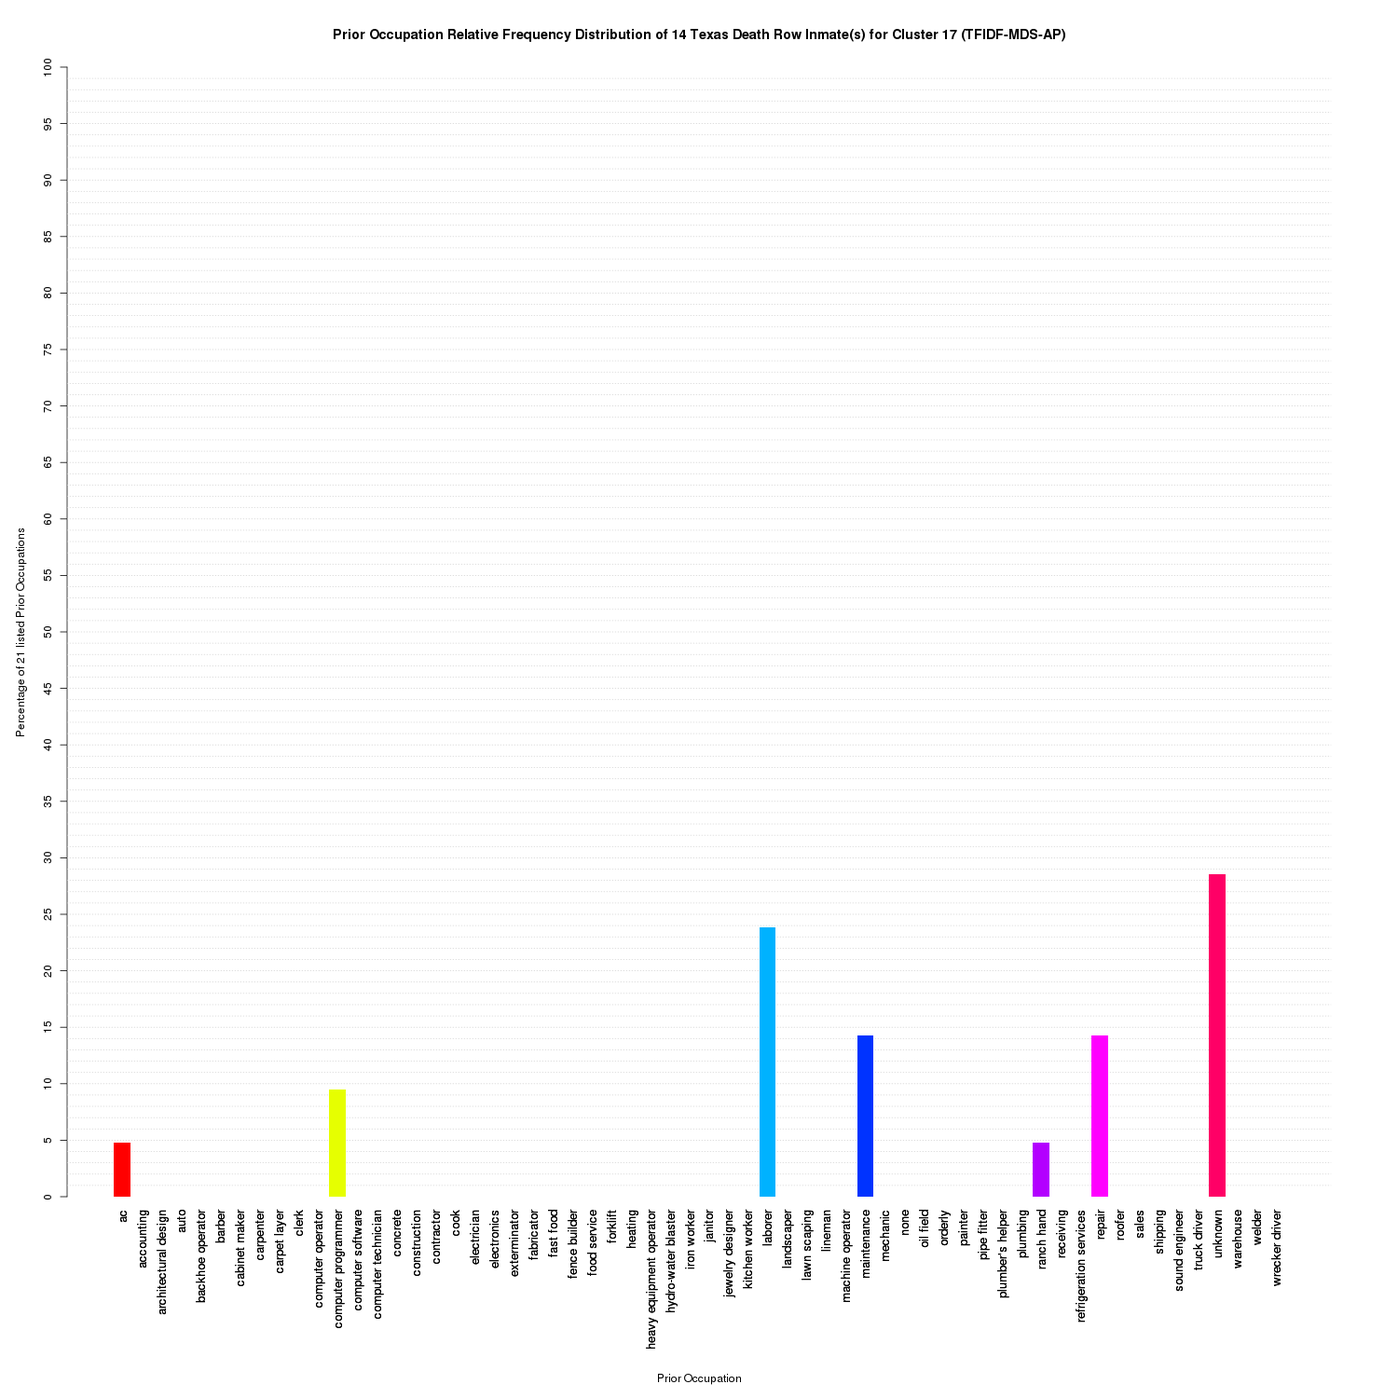
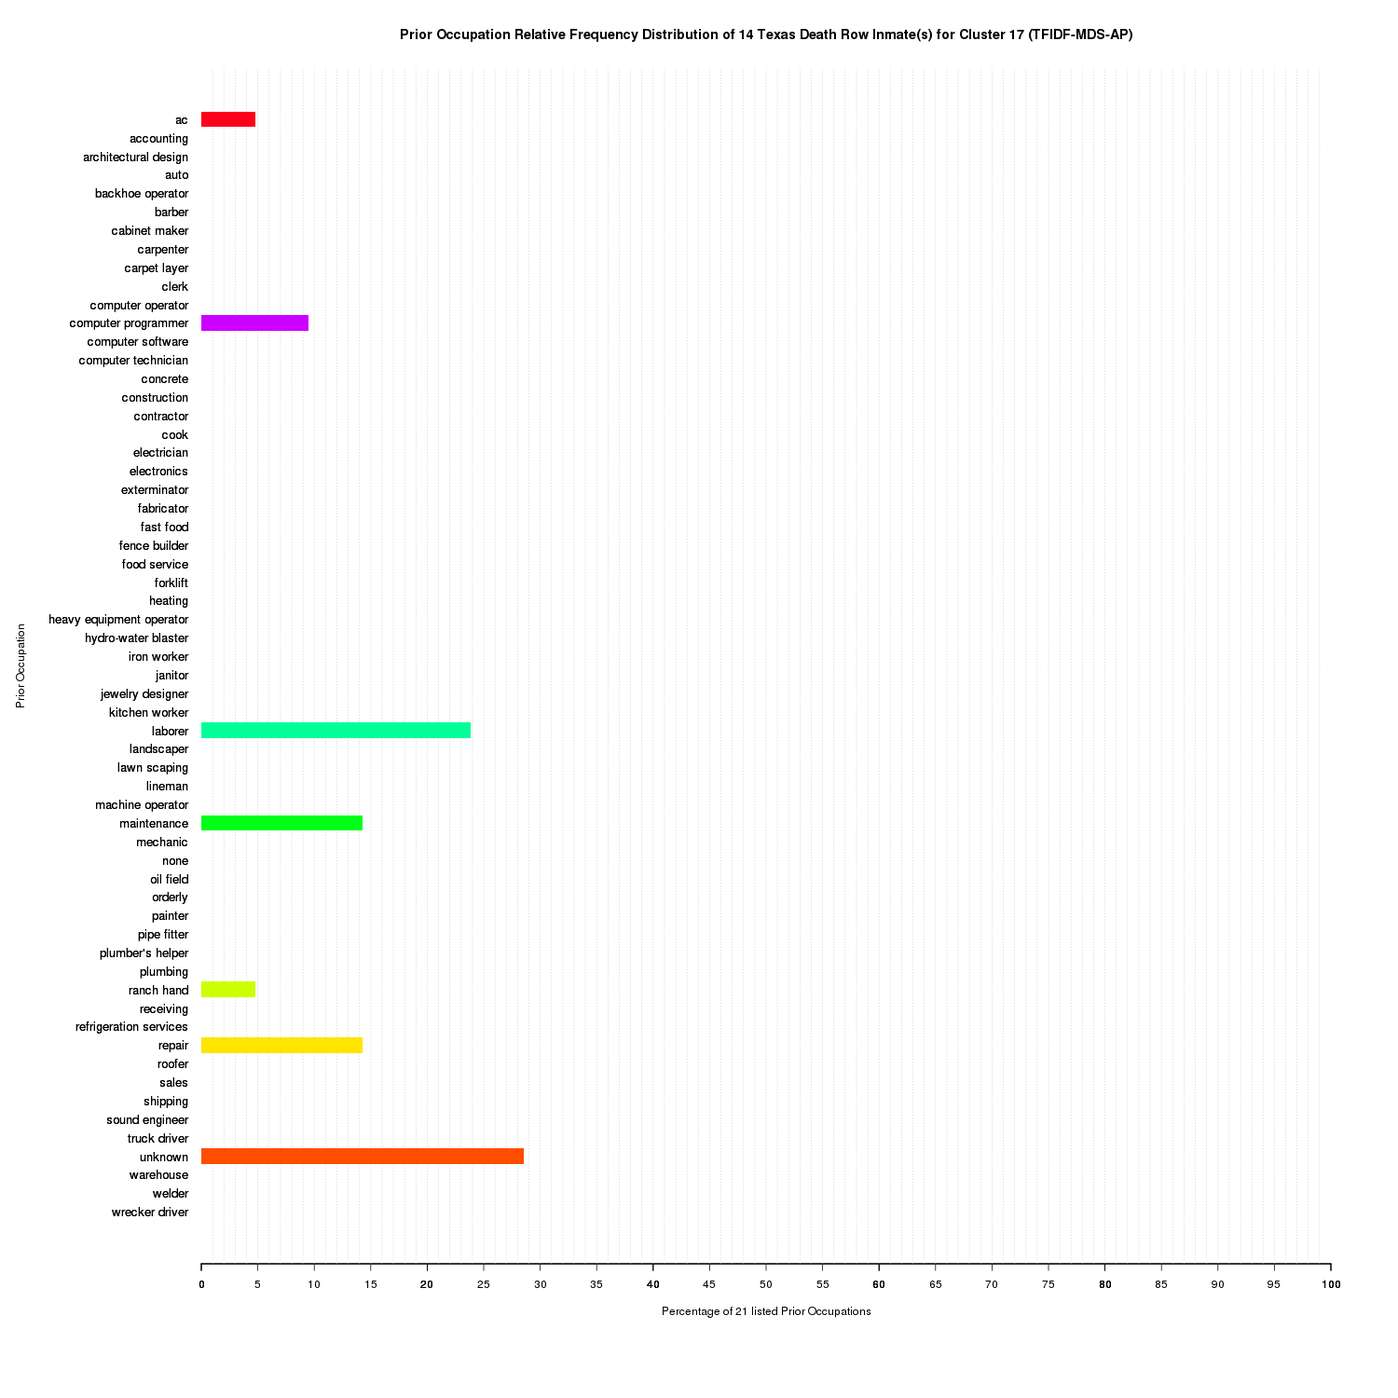
Updates texas death row prior occupations with horiz charts.

diff --git a/_site/posts/2016-02-17-text-mining-in-r-death-row-prior-occupations.html b/_site/posts/2016-02-17-text-mining-in-r-death-row-prior-occupations.html
@@ -228,35 +228,40 @@ unique_prior_occupations_length &lt;-<span class="st"> </span><span class="kw">l
 <span class="co"># Prior Occupation Relative Frequency Chart</span>
 <span class="co"># -----------------------</span>
 
-prior_occupations_table &lt;-<span class="st"> </span><span class="kw">table</span>(prior_occupations_merged)
+reverse_table &lt;-<span class="st"> </span>function(t) { t[<span class="kw">sort</span>(<span class="kw">names</span>(t), <span class="dt">decreasing=</span>T)] }
+
+prior_occupations_table &lt;-<span class="st"> </span><span class="kw">reverse_table</span>(<span class="kw">table</span>(prior_occupations_merged))
 prior_occupations_table &lt;-<span class="st"> </span>prior_occupations_table /<span class="st"> </span><span class="kw">sum</span>(prior_occupations_table) *<span class="st"> </span><span class="dv">100</span>
 <span class="kw">png</span>(<span class="dt">file=</span><span class="st">'prior_occupation_relative_freq_dist.png'</span>, <span class="dt">width=</span><span class="dv">1500</span>, <span class="dt">height=</span><span class="dv">1500</span>)
 <span class="kw">par</span>(
-  <span class="dt">mai=</span><span class="kw">c</span>(<span class="fl">3.0</span>, <span class="fl">1.0</span>, <span class="fl">1.0</span>, <span class="fl">1.0</span>)
+  <span class="dt">mai=</span><span class="kw">c</span>(<span class="fl">2.0</span>, <span class="fl">3.0</span>, <span class="fl">1.0</span>, <span class="fl">1.0</span>)
 )
 <span class="kw">barplot</span>(
   prior_occupations_table,
+  <span class="dt">horiz=</span>T,
   <span class="dt">col=</span><span class="kw">rainbow</span>(<span class="kw">length</span>(prior_occupations_table)),
   <span class="dt">cex.names=</span><span class="fl">1.1</span>,
-  <span class="dt">las=</span><span class="dv">2</span>,
-  <span class="dt">ylim=</span><span class="kw">c</span>(<span class="dv">0</span>, <span class="dv">100</span>),
-  <span class="dt">axes=</span>F
+  <span class="dt">las=</span><span class="dv">1</span>,
+  <span class="dt">xlim=</span><span class="kw">c</span>(<span class="dv">0</span>, <span class="dv">100</span>),
+  <span class="dt">axes=</span>T,
+  <span class="dt">border=</span><span class="ot">NA</span>
 )
-<span class="kw">axis</span>(<span class="dv">2</span>, <span class="dt">at=</span><span class="kw">seq</span>(<span class="dv">0</span>,<span class="dv">100</span>,<span class="dv">5</span>))
-<span class="kw">grid</span>(<span class="dt">ny=</span><span class="dv">100</span>, <span class="dt">nx=</span><span class="ot">NA</span>)
+<span class="kw">axis</span>(<span class="dv">1</span>, <span class="dt">at=</span><span class="kw">seq</span>(<span class="dv">0</span>,<span class="dv">100</span>,<span class="dv">5</span>))
+<span class="kw">grid</span>(<span class="dt">nx=</span><span class="dv">100</span>, <span class="dt">ny=</span><span class="ot">NA</span>)
 <span class="kw">barplot</span>(
   prior_occupations_table,
+  <span class="dt">horiz=</span>T,
   <span class="dt">col=</span><span class="kw">rainbow</span>(<span class="kw">length</span>(prior_occupations_table)),
   <span class="dt">cex.names=</span><span class="fl">1.1</span>,
-  <span class="dt">las=</span><span class="dv">2</span>,
-  <span class="dt">ylim=</span><span class="kw">c</span>(<span class="dv">0</span>, <span class="dv">100</span>),
-  <span class="dt">axes=</span>F,
+  <span class="dt">border=</span><span class="ot">NA</span>,
+  <span class="dt">las=</span><span class="dv">1</span>,
+  <span class="dt">xlim=</span><span class="kw">c</span>(<span class="dv">0</span>, <span class="dv">100</span>),
+  <span class="dt">axes=</span>T,
   <span class="dt">add=</span>T,
-  <span class="dt">xlab=</span><span class="st">''</span>,
-  <span class="dt">ylab=</span><span class="kw">paste</span>(<span class="st">'Percentage of'</span>, total_prior_occupation_count, <span class="st">'listed Prior Occupations'</span>),
+  <span class="dt">xlab=</span><span class="kw">paste</span>(<span class="st">'Percentage of'</span>, total_prior_occupation_count, <span class="st">'listed Prior Occupations'</span>),
   <span class="dt">main=</span><span class="kw">paste</span>(<span class="st">'Prior Occupation Relative Frequency Distribution of'</span>, total_inmate_count, <span class="st">'Texas Death Row Inmates'</span>)
 )
-<span class="kw">mtext</span>(<span class="st">'Prior Occupation'</span>, <span class="dt">side=</span><span class="dv">1</span>, <span class="dt">line=</span><span class="dv">13</span>)</code></pre></div>
+<span class="kw">mtext</span>(<span class="st">'Prior Occupation'</span>, <span class="dt">side=</span><span class="dv">2</span>, <span class="dt">line=</span><span class="dv">13</span>)</code></pre></div>
 <div class="figure">
 <img src="../images/2016-02-17-text-mining-in-r-death-row-prior-occupations/prior_occupation_relative_freq_dist.png" alt="Prior Occupation Relative Frequency Distribution of 182 Texas Death Row Inmates" class="post-img post-img-fill" />
 <p class="caption">Prior Occupation Relative Frequency Distribution of 182 Texas Death Row Inmates</p>
@@ -480,34 +485,37 @@ inmate_cluster_labels &lt;-<span class="st"> </span>result$labels</code></pre></
       cluster_prior_occupations &lt;-<span class="st"> </span><span class="kw">c</span>(cluster_prior_occupations, inmate_prior_occupations)
     }
 
-    prior_occupations_table &lt;-<span class="st"> </span><span class="kw">table</span>(<span class="kw">factor</span>(cluster_prior_occupations, <span class="dt">levels=</span>unique_prior_occupations))
+    prior_occupations_table &lt;-<span class="st"> </span><span class="kw">reverse_table</span>(<span class="kw">table</span>(<span class="kw">factor</span>(cluster_prior_occupations, <span class="dt">levels=</span>unique_prior_occupations)))
     prior_occupations_table &lt;-<span class="st"> </span>prior_occupations_table /<span class="st"> </span><span class="kw">sum</span>(prior_occupations_table) *<span class="st"> </span><span class="dv">100</span>
 
     <span class="kw">png</span>(<span class="dt">file=</span><span class="kw">paste</span>(<span class="kw">tolower</span>(prefix), <span class="kw">toString</span>(i), <span class="st">'prior_occupation_distribution.png'</span>, <span class="dt">sep=</span><span class="st">'_'</span>), <span class="dt">width=</span><span class="dv">1500</span>, <span class="dt">height=</span><span class="dv">1500</span>)
     <span class="kw">plot.new</span>()
     <span class="kw">par</span>(
-      <span class="dt">mai=</span><span class="kw">c</span>(<span class="fl">3.0</span>, <span class="fl">1.0</span>, <span class="fl">1.0</span>, <span class="fl">1.0</span>)
+      <span class="dt">mai=</span><span class="kw">c</span>(<span class="fl">2.0</span>, <span class="fl">3.0</span>, <span class="fl">1.0</span>, <span class="fl">1.0</span>)
     )
     <span class="kw">barplot</span>(
       prior_occupations_table,
+      <span class="dt">horiz=</span>T,
       <span class="dt">col=</span><span class="kw">rainbow</span>(<span class="kw">length</span>(prior_occupations_table)),
       <span class="dt">cex.names=</span><span class="fl">1.1</span>,
-      <span class="dt">las=</span><span class="dv">2</span>,
-      <span class="dt">ylim=</span><span class="kw">c</span>(<span class="dv">0</span>, <span class="dv">100</span>),
-      <span class="dt">axes=</span>F
+      <span class="dt">las=</span><span class="dv">1</span>,
+      <span class="dt">xlim=</span><span class="kw">c</span>(<span class="dv">0</span>, <span class="dv">100</span>),
+      <span class="dt">axes=</span>T,
+      <span class="dt">border=</span><span class="ot">NA</span>
     )
-    <span class="kw">axis</span>(<span class="dv">2</span>, <span class="dt">at=</span><span class="kw">seq</span>(<span class="dv">0</span>,<span class="dv">100</span>,<span class="dv">5</span>))
-    <span class="kw">grid</span>(<span class="dt">ny=</span><span class="dv">100</span>, <span class="dt">nx=</span><span class="ot">NA</span>)
+    <span class="kw">axis</span>(<span class="dv">1</span>, <span class="dt">at=</span><span class="kw">seq</span>(<span class="dv">0</span>,<span class="dv">100</span>,<span class="dv">5</span>))
+    <span class="kw">grid</span>(<span class="dt">nx=</span><span class="dv">100</span>, <span class="dt">ny=</span><span class="ot">NA</span>)
     <span class="kw">barplot</span>(
       prior_occupations_table,
+      <span class="dt">horiz=</span>T,
       <span class="dt">col=</span><span class="kw">rainbow</span>(<span class="kw">length</span>(prior_occupations_table)),
       <span class="dt">cex.names=</span><span class="fl">1.1</span>,
-      <span class="dt">las=</span><span class="dv">2</span>,
-      <span class="dt">ylim=</span><span class="kw">c</span>(<span class="dv">0</span>, <span class="dv">100</span>),
-      <span class="dt">axes=</span>F,
+      <span class="dt">las=</span><span class="dv">1</span>,
+      <span class="dt">xlim=</span><span class="kw">c</span>(<span class="dv">0</span>, <span class="dv">100</span>),
+      <span class="dt">axes=</span>T,
       <span class="dt">add=</span>T,
-      <span class="dt">xlab=</span><span class="st">''</span>,
-      <span class="dt">ylab=</span><span class="kw">paste</span>(<span class="st">'Percentage of'</span>, <span class="kw">length</span>(cluster_prior_occupations), <span class="st">'listed Prior Occupations'</span>),
+      <span class="dt">ylab=</span><span class="st">''</span>,
+      <span class="dt">xlab=</span><span class="kw">paste</span>(<span class="st">'Percentage of'</span>, <span class="kw">length</span>(cluster_prior_occupations), <span class="st">'listed Prior Occupations'</span>),
       <span class="dt">main=</span><span class="kw">paste</span>(
         <span class="st">'Prior Occupation Relative Frequency Distribution of'</span>,
         <span class="kw">length</span>(cluster),
@@ -518,9 +526,10 @@ inmate_cluster_labels &lt;-<span class="st"> </span>result$labels</code></pre></
           prefix,
           <span class="st">')'</span>
         )
-      )
+      ),
+      <span class="dt">border=</span><span class="ot">NA</span>
     )
-    <span class="kw">mtext</span>(<span class="st">'Prior Occupation'</span>, <span class="dt">side=</span><span class="dv">1</span>, <span class="dt">line=</span><span class="dv">13</span>)
+    <span class="kw">mtext</span>(<span class="st">'Prior Occupation'</span>, <span class="dt">side=</span><span class="dv">2</span>, <span class="dt">line=</span><span class="dv">13</span>)
     <span class="kw">dev.off</span>()
   }
 }
@@ -1118,11 +1127,8 @@ csv_filename &lt;-<span class="st"> 'prior_occupations_dirty.csv'</span>
 
 if (!<span class="kw">file.exists</span>(csv_filename)) {
   page &lt;-<span class="st"> </span><span class="kw">read_html</span>(main_link)
-  page
   links &lt;-<span class="st"> </span><span class="kw">html_attr</span>(<span class="kw">html_nodes</span>(page, <span class="st">'a'</span>), <span class="st">'href'</span>)
-  links
   links &lt;-<span class="st"> </span><span class="kw">grep</span>(<span class="st">'^dr_info.*html$'</span>, links, <span class="dt">value=</span><span class="ot">TRUE</span>)
-  links
   prior_occupations_dirty &lt;-<span class="st"> </span><span class="kw">c</span>()
   for (link in links) {
     texts &lt;-<span class="st"> </span><span class="kw">read_html</span>(<span class="kw">paste</span>(base_link, link, <span class="dt">sep=</span><span class="st">''</span>)) %&gt;%<span class="st"> </span><span class="kw">html_nodes</span>(<span class="st">'p'</span>) %&gt;%<span class="st"> </span><span class="kw">html_text</span>()
@@ -1236,37 +1242,40 @@ unique_prior_occupations_length &lt;-<span class="st"> </span><span class="kw">l
 <span class="co"># Prior Occupation Relative Frequency Chart</span>
 <span class="co"># -----------------------</span>
 
-prior_occupations_table &lt;-<span class="st"> </span><span class="kw">table</span>(prior_occupations_merged)
+reverse_table &lt;-<span class="st"> </span>function(t) { t[<span class="kw">sort</span>(<span class="kw">names</span>(t), <span class="dt">decreasing=</span>T)] }
+
+prior_occupations_table &lt;-<span class="st"> </span><span class="kw">reverse_table</span>(<span class="kw">table</span>(prior_occupations_merged))
 prior_occupations_table &lt;-<span class="st"> </span>prior_occupations_table /<span class="st"> </span><span class="kw">sum</span>(prior_occupations_table) *<span class="st"> </span><span class="dv">100</span>
 <span class="kw">png</span>(<span class="dt">file=</span><span class="st">'prior_occupation_relative_freq_dist.png'</span>, <span class="dt">width=</span><span class="dv">1500</span>, <span class="dt">height=</span><span class="dv">1500</span>)
 <span class="kw">par</span>(
-  <span class="dt">mai=</span><span class="kw">c</span>(<span class="fl">3.0</span>, <span class="fl">1.0</span>, <span class="fl">1.0</span>, <span class="fl">1.0</span>)
+  <span class="dt">mai=</span><span class="kw">c</span>(<span class="fl">2.0</span>, <span class="fl">3.0</span>, <span class="fl">1.0</span>, <span class="fl">1.0</span>)
 )
 <span class="kw">barplot</span>(
   prior_occupations_table,
+  <span class="dt">horiz=</span>T,
   <span class="dt">col=</span><span class="kw">rainbow</span>(<span class="kw">length</span>(prior_occupations_table)),
   <span class="dt">cex.names=</span><span class="fl">1.1</span>,
-  <span class="dt">las=</span><span class="dv">2</span>,
-  <span class="dt">ylim=</span><span class="kw">c</span>(<span class="dv">0</span>, <span class="dv">100</span>),
-  <span class="dt">axes=</span>F,
+  <span class="dt">las=</span><span class="dv">1</span>,
+  <span class="dt">xlim=</span><span class="kw">c</span>(<span class="dv">0</span>, <span class="dv">100</span>),
+  <span class="dt">axes=</span>T,
   <span class="dt">border=</span><span class="ot">NA</span>
 )
-<span class="kw">axis</span>(<span class="dv">2</span>, <span class="dt">at=</span><span class="kw">seq</span>(<span class="dv">0</span>,<span class="dv">100</span>,<span class="dv">5</span>))
-<span class="kw">grid</span>(<span class="dt">ny=</span><span class="dv">100</span>, <span class="dt">nx=</span><span class="ot">NA</span>)
+<span class="kw">axis</span>(<span class="dv">1</span>, <span class="dt">at=</span><span class="kw">seq</span>(<span class="dv">0</span>,<span class="dv">100</span>,<span class="dv">5</span>))
+<span class="kw">grid</span>(<span class="dt">nx=</span><span class="dv">100</span>, <span class="dt">ny=</span><span class="ot">NA</span>)
 <span class="kw">barplot</span>(
   prior_occupations_table,
+  <span class="dt">horiz=</span>T,
   <span class="dt">col=</span><span class="kw">rainbow</span>(<span class="kw">length</span>(prior_occupations_table)),
   <span class="dt">cex.names=</span><span class="fl">1.1</span>,
   <span class="dt">border=</span><span class="ot">NA</span>,
-  <span class="dt">las=</span><span class="dv">2</span>,
-  <span class="dt">ylim=</span><span class="kw">c</span>(<span class="dv">0</span>, <span class="dv">100</span>),
-  <span class="dt">axes=</span>F,
+  <span class="dt">las=</span><span class="dv">1</span>,
+  <span class="dt">xlim=</span><span class="kw">c</span>(<span class="dv">0</span>, <span class="dv">100</span>),
+  <span class="dt">axes=</span>T,
   <span class="dt">add=</span>T,
-  <span class="dt">xlab=</span><span class="st">''</span>,
-  <span class="dt">ylab=</span><span class="kw">paste</span>(<span class="st">'Percentage of'</span>, total_prior_occupation_count, <span class="st">'listed Prior Occupations'</span>),
+  <span class="dt">xlab=</span><span class="kw">paste</span>(<span class="st">'Percentage of'</span>, total_prior_occupation_count, <span class="st">'listed Prior Occupations'</span>),
   <span class="dt">main=</span><span class="kw">paste</span>(<span class="st">'Prior Occupation Relative Frequency Distribution of'</span>, total_inmate_count, <span class="st">'Texas Death Row Inmates'</span>)
 )
-<span class="kw">mtext</span>(<span class="st">'Prior Occupation'</span>, <span class="dt">side=</span><span class="dv">1</span>, <span class="dt">line=</span><span class="dv">13</span>)
+<span class="kw">mtext</span>(<span class="st">'Prior Occupation'</span>, <span class="dt">side=</span><span class="dv">2</span>, <span class="dt">line=</span><span class="dv">13</span>)
 
 <span class="co"># -----------------------</span>
 <span class="co"># Inmate x Prior Occupations</span>
@@ -1328,7 +1337,8 @@ inmate_matrix_tfidf_l2_norm &lt;-<span class="st"> </span><span class="kw">matri
   <span class="dt">byrow=</span>T
 )
 
-<span class="co">#inmate_matrix_tfidf &lt;- inmate_matrix_tfidf_l2_norm</span>
+<span class="co"># Uncomment to use the L2 norm version of TF-IDF.</span>
+<span class="co"># inmate_matrix_tfidf &lt;- inmate_matrix_tfidf_l2_norm</span>
 
 <span class="co"># -----------------------</span>
 <span class="co"># MDS</span>
@@ -1604,35 +1614,37 @@ plot_clusters_occupation_distributions &lt;-<span class="st"> </span>function(pr
       cluster_prior_occupations &lt;-<span class="st"> </span><span class="kw">c</span>(cluster_prior_occupations, inmate_prior_occupations)
     }
 
-    prior_occupations_table &lt;-<span class="st"> </span><span class="kw">table</span>(<span class="kw">factor</span>(cluster_prior_occupations, <span class="dt">levels=</span>unique_prior_occupations))
+    prior_occupations_table &lt;-<span class="st"> </span><span class="kw">reverse_table</span>(<span class="kw">table</span>(<span class="kw">factor</span>(cluster_prior_occupations, <span class="dt">levels=</span>unique_prior_occupations)))
     prior_occupations_table &lt;-<span class="st"> </span>prior_occupations_table /<span class="st"> </span><span class="kw">sum</span>(prior_occupations_table) *<span class="st"> </span><span class="dv">100</span>
 
     <span class="kw">png</span>(<span class="dt">file=</span><span class="kw">paste</span>(<span class="kw">tolower</span>(prefix), <span class="kw">toString</span>(i), <span class="st">'prior_occupation_distribution.png'</span>, <span class="dt">sep=</span><span class="st">'_'</span>), <span class="dt">width=</span><span class="dv">1500</span>, <span class="dt">height=</span><span class="dv">1500</span>)
     <span class="kw">plot.new</span>()
     <span class="kw">par</span>(
-      <span class="dt">mai=</span><span class="kw">c</span>(<span class="fl">3.0</span>, <span class="fl">1.0</span>, <span class="fl">1.0</span>, <span class="fl">1.0</span>)
+      <span class="dt">mai=</span><span class="kw">c</span>(<span class="fl">2.0</span>, <span class="fl">3.0</span>, <span class="fl">1.0</span>, <span class="fl">1.0</span>)
     )
     <span class="kw">barplot</span>(
       prior_occupations_table,
+      <span class="dt">horiz=</span>T,
       <span class="dt">col=</span><span class="kw">rainbow</span>(<span class="kw">length</span>(prior_occupations_table)),
       <span class="dt">cex.names=</span><span class="fl">1.1</span>,
-      <span class="dt">las=</span><span class="dv">2</span>,
-      <span class="dt">ylim=</span><span class="kw">c</span>(<span class="dv">0</span>, <span class="dv">100</span>),
-      <span class="dt">axes=</span>F,
+      <span class="dt">las=</span><span class="dv">1</span>,
+      <span class="dt">xlim=</span><span class="kw">c</span>(<span class="dv">0</span>, <span class="dv">100</span>),
+      <span class="dt">axes=</span>T,
       <span class="dt">border=</span><span class="ot">NA</span>
     )
-    <span class="kw">axis</span>(<span class="dv">2</span>, <span class="dt">at=</span><span class="kw">seq</span>(<span class="dv">0</span>,<span class="dv">100</span>,<span class="dv">5</span>))
-    <span class="kw">grid</span>(<span class="dt">ny=</span><span class="dv">100</span>, <span class="dt">nx=</span><span class="ot">NA</span>)
+    <span class="kw">axis</span>(<span class="dv">1</span>, <span class="dt">at=</span><span class="kw">seq</span>(<span class="dv">0</span>,<span class="dv">100</span>,<span class="dv">5</span>))
+    <span class="kw">grid</span>(<span class="dt">nx=</span><span class="dv">100</span>, <span class="dt">ny=</span><span class="ot">NA</span>)
     <span class="kw">barplot</span>(
       prior_occupations_table,
+      <span class="dt">horiz=</span>T,
       <span class="dt">col=</span><span class="kw">rainbow</span>(<span class="kw">length</span>(prior_occupations_table)),
       <span class="dt">cex.names=</span><span class="fl">1.1</span>,
-      <span class="dt">las=</span><span class="dv">2</span>,
-      <span class="dt">ylim=</span><span class="kw">c</span>(<span class="dv">0</span>, <span class="dv">100</span>),
-      <span class="dt">axes=</span>F,
+      <span class="dt">las=</span><span class="dv">1</span>,
+      <span class="dt">xlim=</span><span class="kw">c</span>(<span class="dv">0</span>, <span class="dv">100</span>),
+      <span class="dt">axes=</span>T,
       <span class="dt">add=</span>T,
-      <span class="dt">xlab=</span><span class="st">''</span>,
-      <span class="dt">ylab=</span><span class="kw">paste</span>(<span class="st">'Percentage of'</span>, <span class="kw">length</span>(cluster_prior_occupations), <span class="st">'listed Prior Occupations'</span>),
+      <span class="dt">ylab=</span><span class="st">''</span>,
+      <span class="dt">xlab=</span><span class="kw">paste</span>(<span class="st">'Percentage of'</span>, <span class="kw">length</span>(cluster_prior_occupations), <span class="st">'listed Prior Occupations'</span>),
       <span class="dt">main=</span><span class="kw">paste</span>(
         <span class="st">'Prior Occupation Relative Frequency Distribution of'</span>,
         <span class="kw">length</span>(cluster),
@@ -1646,7 +1658,7 @@ plot_clusters_occupation_distributions &lt;-<span class="st"> </span>function(pr
       ),
       <span class="dt">border=</span><span class="ot">NA</span>
     )
-    <span class="kw">mtext</span>(<span class="st">'Prior Occupation'</span>, <span class="dt">side=</span><span class="dv">1</span>, <span class="dt">line=</span><span class="dv">13</span>)
+    <span class="kw">mtext</span>(<span class="st">'Prior Occupation'</span>, <span class="dt">side=</span><span class="dv">2</span>, <span class="dt">line=</span><span class="dv">13</span>)
     <span class="kw">dev.off</span>()
   }
 }
